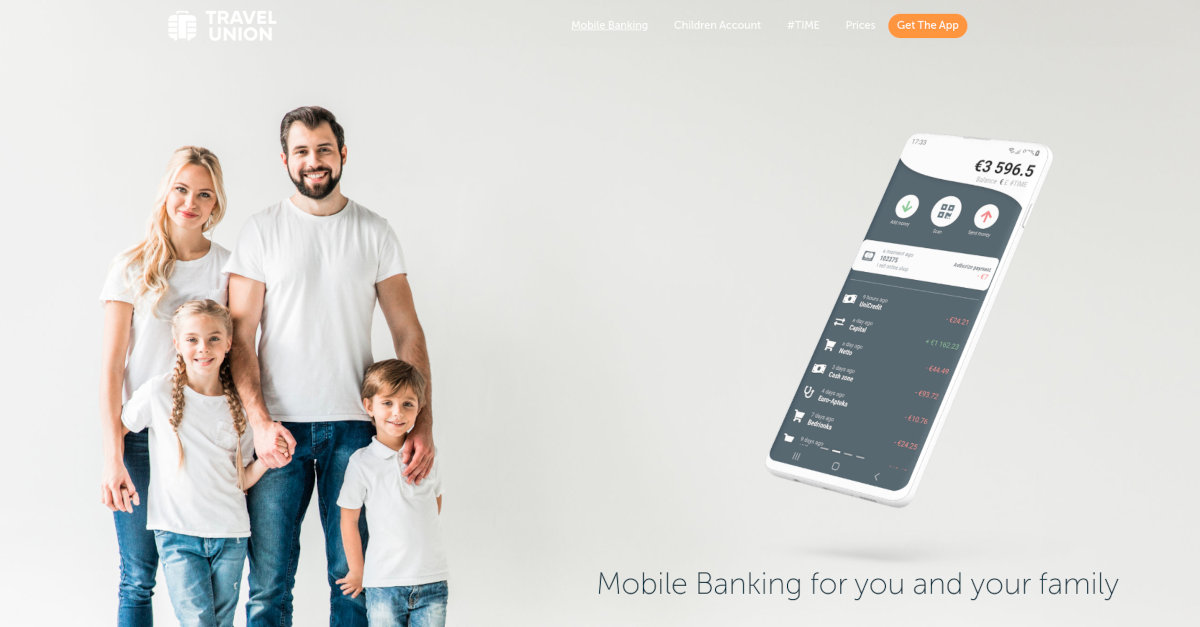
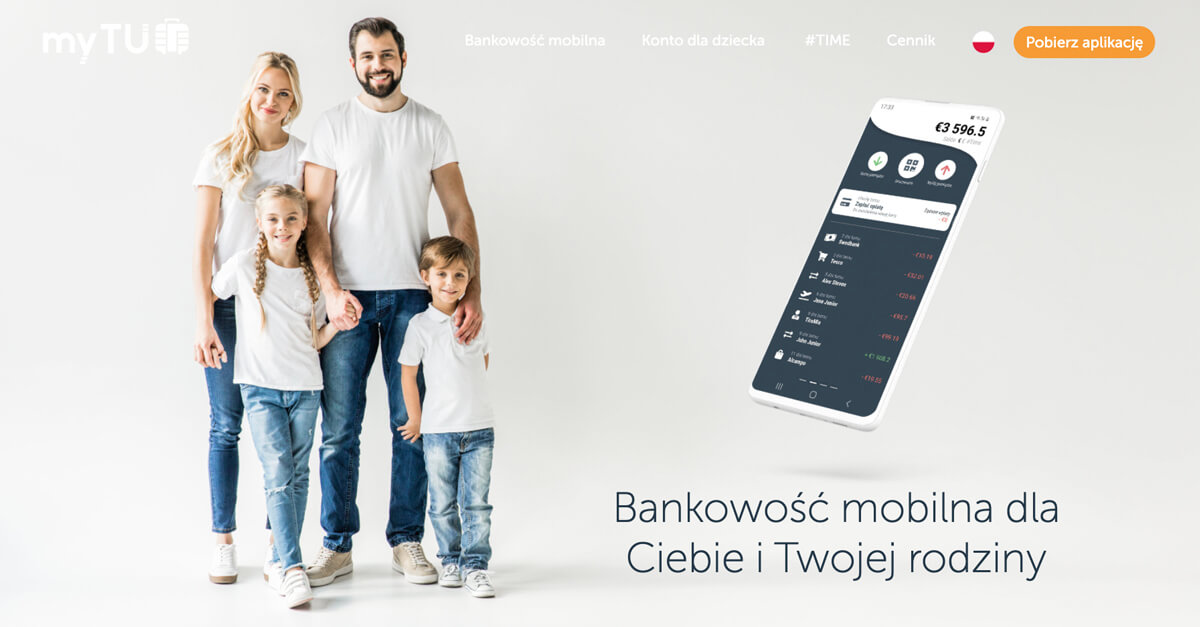
pl fixes

diff --git a/pl/index.html b/pl/index.html
@@ -11,9 +11,9 @@
     <meta name="viewport" content="width=device-width, maximum-scale=1.0, user-scalable=0">
     <meta property="og:image" content="assets/img/screen1.jpg">
     <meta name="twitter:image" content="assets/img/screen1.jpg">
-    <meta property="og:title" content="myTU Mobile Banking">
-    <meta property="og:description" content="myTU is a convenient mobile banking app with a personal account for you and all your family members from the age of 7. ">
+    <meta property="og:description" content="myTU to wygodna aplikacja do bankowości mobilnej z kontem osobistym dla Ciebie i wszystkich członków Twojej rodziny od 7 roku życia. ">
     <meta name="description" content="myTU to wygodna aplikacja do bankowości mobilnej z kontem osobistym dla Ciebie i wszystkich członków Twojej rodziny od 7 roku życia. ">
+    <meta property="og:title" content="myTU Bankowość Mobilna">
     <link rel="icon" type="image/png" sizes="192x192" href="assets/img/android-icon-192x192.png">
     <link rel="icon" type="image/png" sizes="192x192" href="assets/img/android-icon-192x192.png">
     <link rel="icon" type="image/png" sizes="192x192" href="assets/img/android-icon-192x192.png">
@@ -34,7 +34,7 @@
 </head>
 
 <body class="tr" style="font-family: 'Museo Sans Cyrillic';height: 100%;background-color: white;">
-    <nav class="navbar navbar-light navbar-expand-md fixed-top navigation-clean-button">
+    <nav class="navbar navbar-dark navbar-expand-md fixed-top navigation-clean-button">
         <div class="container"><a href="https://www.mytu.co/"><img id="logoNormal" src="assets/img/logo-rgb.svg" width="150px" style="width: 150px;" alt="myTU mobile banking logo"><img id="logoWhite" src="assets/img/logo-white.svg" width="150px" style="width: 150px;margin-left: -150px;"></a><button data-toggle="collapse" class="navbar-toggler" data-target="#navcol-1" style="border: 0px !important;outline: 0px !important;"><span class="sr-only">Toggle navigation</span><span class="navbar-toggler-icon text-white"></span></button>
             <div class="collapse navbar-collapse text-right" id="navcol-1">
                 <ul class="navbar-nav ml-auto">
@@ -47,7 +47,7 @@
             </div>
         </div>
     </nav>
-    <div class="d-block d-md-none" style="width: 100%;display: table;position: absolute;background-image: url(assets/img/landing1.jpg);background-attachment: fixed;background-position: 30% 0%;background-size: cover;height: 65%;min-height: 350px;"></div>
+    <div class="d-block d-md-none" style="width: 100%;display: table;position: absolute;background-image: url(assets/img/landing1.jpg);background-attachment: scroll;background-position: 30% 0%;background-size: cover;height: 65%;min-height: 350px;"></div>
     <div class="d-none d-md-block" style="width: 100%;display: table;position: absolute;background-image: url(assets/img/landing1.jpg);background-attachment: fixed;background-position: 30% 0%;background-size: cover;height: 100%;min-height: 800px;padding-right: 30px;"></div>
     <div class="d-block d-md-none" style="height: 50%;margin-bottom: -250px;min-height: 350px;"></div>
     <div class="container-fluid text-primary" style="height: 100%;padding-top: 90px;box-sizing: border-box;/*top: 0px;*//*left: 0px;*/width: 100%;overflow: hidden;/*display: table;*/min-height: 800px;">
@@ -234,7 +234,7 @@
                         <h3 style="font-size: 1.1em;">Firma</h3>
                         <ul>
                             <li><a href="about-us-company-contacts.html">O nas</a></li>
-                            <li><a href="about-us-company-contacts.html#contacts">Łączność</a></li>
+                            <li><a href="about-us-company-contacts.html#contacts">Kontakt</a></li>
                             <li><a href="about-us-company-contacts.html#press">Prasa</a></li>
                             <li><a href="legal-documents.html">Regulamin</a></li>
                             <li><a href="https://mytu.co/careers.html" target="_blank">Kariera</a></li>
@@ -299,7 +299,7 @@ cookieconsent.run({"notice_banner_type":"simple","consent_type":"express","palet
                     </div>
                     <div class="row">
                         <div class="col-6 d-flex flex-grow-1 align-items-center"><a class="text-primary" href="https://mytu.es"><img src="assets/img/spain-flag-round-small.png" width="36px" height="36px" style="border: 1px solid #e1e1e1;border-radius: 100%;">&nbsp; Español</a></div>
-                        <div class="col-auto d-flex flex-grow-1 align-items-center"><a class="text-primary" href="https://mytu.pl"><img src="assets/img/poland-flag-round-small.png" width="36px" height="36px" style="border: 1px solid #e1e1e1;border-radius: 100%;">&nbsp; Polskie</a></div>
+                        <div class="col-auto d-flex flex-grow-1 align-items-center"><a class="text-primary" href="https://mytu.pl"><img src="assets/img/poland-flag-round-small.png" width="36px" height="36px" style="border: 1px solid #e1e1e1;border-radius: 100%;">&nbsp; Polski</a></div>
                     </div>
                 </div>
             </div>

diff --git a/pl/payment-card-for-kids.html b/pl/payment-card-for-kids.html
@@ -34,7 +34,7 @@
 </head>
 
 <body class="tr" style="font-family: 'Museo Sans Cyrillic';height: 100%;">
-    <nav class="navbar navbar-light navbar-expand-md fixed-top navigation-clean-button">
+    <nav class="navbar navbar-dark navbar-expand-md fixed-top navigation-clean-button">
         <div class="container"><a href="https://www.mytu.co/"><img id="logoNormal" src="assets/img/logo-rgb.svg" width="150px" style="width: 150px;" alt="myTU mobile banking logo"><img id="logoWhite" src="assets/img/logo-white.svg" width="150px" style="width: 150px;margin-left: -150px;"></a><button data-toggle="collapse" class="navbar-toggler" data-target="#navcol-1" style="border: 0px !important;outline: 0px !important;"><span class="sr-only">Toggle navigation</span><span class="navbar-toggler-icon text-white"></span></button>
             <div class="collapse navbar-collapse text-right" id="navcol-1">
                 <ul class="navbar-nav ml-auto">
@@ -47,7 +47,7 @@
             </div>
         </div>
     </nav>
-    <div class="d-block d-md-none" style="width: 100%;display: table;position: absolute;background-image: url(assets/img/landing2.jpg);background-attachment: fixed;background-position: 30% 0%;background-size: cover;height: 65%;min-height: 350px;"></div>
+    <div class="d-block d-md-none" style="width: 100%;display: table;position: absolute;background-image: url(assets/img/landing2.jpg);background-attachment: scroll;background-position: 30% 0%;background-size: cover;height: 65%;min-height: 350px;"></div>
     <div class="d-none d-md-block" style="width: 100%;display: table;position: absolute;background-image: url(assets/img/landing2.jpg);background-attachment: fixed;background-position: 30% 0%;background-size: cover;height: 100%;min-height: 800px;"></div>
     <div class="d-block d-md-none" style="height: 50%;margin-bottom: -250px;min-height: 350px;"></div>
     <div class="container-fluid text-primary" style="height: 100%;padding-top: 90px;box-sizing: border-box;/*top: 0px;*//*left: 0px;*/width: 100%;overflow: hidden;/*display: table;*/min-height: 800px;">
@@ -98,7 +98,7 @@
                     <h2 class="text-warning" data-aos="fade-left" data-aos-delay="350" data-aos-once="true" style="font-weight: 200;">dla dziecka?</h2>
                     <ol style="font-size: 1.4em;">
                         <li>Jedno z rodziców musi mieć konto w myTU.<br></li>
-                        <li>Jeden z rodziców rejestruje dziecko poprzez swoją aplikację: czyta umowę, przekazuje dokumenty dziecka, rejestruje numer telefonu dziecka.<br></li>
+                        <li>Jedno z rodziców rejestruje dziecko poprzez swoją aplikację: czyta umowę, przekazuje dokumenty dziecka, rejestruje numer telefonu dziecka.<br></li>
                         <li>Dziecko pobiera aplikację myTU, rejestruje swój smartfon i potwierdza swoją tożsamość&nbsp;<br></li>
                         <li>Ankietę dla dziecka poniżej 14 roku życia muszą wypełnić rodzice w ich aplikacji. Od 14 roku życia dziecko wykonuje tę czynność samodzielnie, ze swojego smartfona.&nbsp;<br></li>
                     </ol>
@@ -255,7 +255,7 @@
                         <h3 style="font-size: 1.1em;">Firma</h3>
                         <ul>
                             <li><a href="about-us-company-contacts.html">O nas</a></li>
-                            <li><a href="about-us-company-contacts.html#contacts">Łączność</a></li>
+                            <li><a href="about-us-company-contacts.html#contacts">Kontakt</a></li>
                             <li><a href="about-us-company-contacts.html#press">Prasa</a></li>
                             <li><a href="legal-documents.html">Regulamin</a></li>
                             <li><a href="https://mytu.co/careers.html" target="_blank">Kariera</a></li>
@@ -320,7 +320,7 @@ cookieconsent.run({"notice_banner_type":"simple","consent_type":"express","palet
                     </div>
                     <div class="row">
                         <div class="col-6 d-flex flex-grow-1 align-items-center"><a class="text-primary" href="https://mytu.es"><img src="assets/img/spain-flag-round-small.png" width="36px" height="36px" style="border: 1px solid #e1e1e1;border-radius: 100%;">&nbsp; Español</a></div>
-                        <div class="col-auto d-flex flex-grow-1 align-items-center"><a class="text-primary" href="https://mytu.pl"><img src="assets/img/poland-flag-round-small.png" width="36px" height="36px" style="border: 1px solid #e1e1e1;border-radius: 100%;">&nbsp; Polskie</a></div>
+                        <div class="col-auto d-flex flex-grow-1 align-items-center"><a class="text-primary" href="https://mytu.pl"><img src="assets/img/poland-flag-round-small.png" width="36px" height="36px" style="border: 1px solid #e1e1e1;border-radius: 100%;">&nbsp; Polski</a></div>
                     </div>
                 </div>
             </div>

diff --git a/pl/time-loyalty-program.html b/pl/time-loyalty-program.html
@@ -34,7 +34,7 @@
 </head>
 
 <body class="tr" style="font-family: 'Museo Sans Cyrillic';height: 100%;">
-    <nav class="navbar navbar-light navbar-expand-md fixed-top navigation-clean-button">
+    <nav class="navbar navbar-dark navbar-expand-md fixed-top navigation-clean-button">
         <div class="container"><a href="https://www.mytu.co/"><img id="logoNormal" src="assets/img/logo-rgb.svg" width="150px" style="width: 150px;" alt="myTU mobile banking logo"><img id="logoWhite" src="assets/img/logo-white.svg" width="150px" style="width: 150px;margin-left: -150px;"></a><button data-toggle="collapse" class="navbar-toggler" data-target="#navcol-1" style="border: 0px !important;outline: 0px !important;"><span class="sr-only">Toggle navigation</span><span class="navbar-toggler-icon text-white"></span></button>
             <div class="collapse navbar-collapse text-right" id="navcol-1">
                 <ul class="navbar-nav ml-auto">
@@ -47,7 +47,7 @@
             </div>
         </div>
     </nav>
-    <div class="d-block d-md-none" style="width: 100%;display: table;position: absolute;background-image: url(assets/img/landing3.jpg);background-attachment: fixed;background-position: 50% 100%;background-size: cover;height: 65%;min-height: 350px;"></div>
+    <div class="d-block d-md-none" style="width: 100%;display: table;position: absolute;background-image: url(assets/img/landing3.jpg);background-attachment: scroll;background-position: 50% 100%;background-size: cover;height: 65%;min-height: 350px;"></div>
     <div class="d-none d-md-block" style="width: 100%;display: table;position: absolute;background-image: url(assets/img/landing3.jpg);background-attachment: fixed;background-position: 50% 100%;background-size: cover;height: 100%;min-height: 800px;"></div>
     <div class="d-block d-md-none" style="height: 50%;margin-bottom: -250px;min-height: 350px;"></div>
     <div class="container-fluid text-primary time-hero-container">
@@ -187,7 +187,7 @@
                         <h3 style="font-size: 1.1em;">Firma</h3>
                         <ul>
                             <li><a href="about-us-company-contacts.html">O nas</a></li>
-                            <li><a href="about-us-company-contacts.html#contacts">Łączność</a></li>
+                            <li><a href="about-us-company-contacts.html#contacts">Kontakt</a></li>
                             <li><a href="about-us-company-contacts.html#press">Prasa</a></li>
                             <li><a href="legal-documents.html">Regulamin</a></li>
                             <li><a href="https://mytu.co/careers.html" target="_blank">Kariera</a></li>
@@ -252,7 +252,7 @@ cookieconsent.run({"notice_banner_type":"simple","consent_type":"express","palet
                     </div>
                     <div class="row">
                         <div class="col-6 d-flex flex-grow-1 align-items-center"><a class="text-primary" href="https://mytu.es"><img src="assets/img/spain-flag-round-small.png" width="36px" height="36px" style="border: 1px solid #e1e1e1;border-radius: 100%;">&nbsp; Español</a></div>
-                        <div class="col-auto d-flex flex-grow-1 align-items-center"><a class="text-primary" href="https://mytu.pl"><img src="assets/img/poland-flag-round-small.png" width="36px" height="36px" style="border: 1px solid #e1e1e1;border-radius: 100%;">&nbsp; Polskie</a></div>
+                        <div class="col-auto d-flex flex-grow-1 align-items-center"><a class="text-primary" href="https://mytu.pl"><img src="assets/img/poland-flag-round-small.png" width="36px" height="36px" style="border: 1px solid #e1e1e1;border-radius: 100%;">&nbsp; Polski</a></div>
                     </div>
                 </div>
             </div>

diff --git a/pl/legal-documents.html b/pl/legal-documents.html
@@ -34,7 +34,7 @@
 </head>
 
 <body class="page-legal" style="font-family: 'Museo Sans Cyrillic';">
-    <nav class="navbar navbar-light navbar-expand-md fixed-top navigation-clean-button">
+    <nav class="navbar navbar-dark navbar-expand-md fixed-top navigation-clean-button">
         <div class="container"><a href="https://www.mytu.co/"><img id="logoNormal" src="assets/img/logo-rgb.svg" width="150px" style="width: 150px;" alt="myTU mobile banking logo"><img id="logoWhite" src="assets/img/logo-white.svg" width="150px" style="width: 150px;margin-left: -150px;"></a><button data-toggle="collapse" class="navbar-toggler" data-target="#navcol-1" style="border: 0px !important;outline: 0px !important;"><span class="sr-only">Toggle navigation</span><span class="navbar-toggler-icon text-white"></span></button>
             <div class="collapse navbar-collapse text-right" id="navcol-1">
                 <ul class="navbar-nav ml-auto">
@@ -297,7 +297,7 @@ We use the following categories of cookies on our Website:</p>
                         <h3 style="font-size: 1.1em;">Firma</h3>
                         <ul>
                             <li><a href="about-us-company-contacts.html">O nas</a></li>
-                            <li><a href="about-us-company-contacts.html#contacts">Łączność</a></li>
+                            <li><a href="about-us-company-contacts.html#contacts">Kontakt</a></li>
                             <li><a href="about-us-company-contacts.html#press">Prasa</a></li>
                             <li><a href="legal-documents.html">Regulamin</a></li>
                             <li><a href="https://mytu.co/careers.html" target="_blank">Kariera</a></li>
@@ -362,7 +362,7 @@ cookieconsent.run({"notice_banner_type":"simple","consent_type":"express","palet
                     </div>
                     <div class="row">
                         <div class="col-6 d-flex flex-grow-1 align-items-center"><a class="text-primary" href="https://mytu.es"><img src="assets/img/spain-flag-round-small.png" width="36px" height="36px" style="border: 1px solid #e1e1e1;border-radius: 100%;">&nbsp; Español</a></div>
-                        <div class="col-auto d-flex flex-grow-1 align-items-center"><a class="text-primary" href="https://mytu.pl"><img src="assets/img/poland-flag-round-small.png" width="36px" height="36px" style="border: 1px solid #e1e1e1;border-radius: 100%;">&nbsp; Polskie</a></div>
+                        <div class="col-auto d-flex flex-grow-1 align-items-center"><a class="text-primary" href="https://mytu.pl"><img src="assets/img/poland-flag-round-small.png" width="36px" height="36px" style="border: 1px solid #e1e1e1;border-radius: 100%;">&nbsp; Polski</a></div>
                     </div>
                 </div>
             </div>

diff --git a/pl/mobile-banking-prices.html b/pl/mobile-banking-prices.html
@@ -34,7 +34,7 @@
 </head>
 
 <body style="font-family: 'Museo Sans Cyrillic';height: 100%;">
-    <nav class="navbar navbar-light navbar-expand-md fixed-top navigation-clean-button">
+    <nav class="navbar navbar-dark navbar-expand-md fixed-top navigation-clean-button">
         <div class="container"><a href="https://www.mytu.co/"><img id="logoNormal" src="assets/img/logo-rgb.svg" width="150px" style="width: 150px;" alt="myTU mobile banking logo"><img id="logoWhite" src="assets/img/logo-white.svg" width="150px" style="width: 150px;margin-left: -150px;"></a><button data-toggle="collapse" class="navbar-toggler" data-target="#navcol-1" style="border: 0px !important;outline: 0px !important;"><span class="sr-only">Toggle navigation</span><span class="navbar-toggler-icon text-white"></span></button>
             <div class="collapse navbar-collapse text-right" id="navcol-1">
                 <ul class="navbar-nav ml-auto">
@@ -157,7 +157,7 @@
                         <h3 style="font-size: 1.1em;">Firma</h3>
                         <ul>
                             <li><a href="about-us-company-contacts.html">O nas</a></li>
-                            <li><a href="about-us-company-contacts.html#contacts">Łączność</a></li>
+                            <li><a href="about-us-company-contacts.html#contacts">Kontakt</a></li>
                             <li><a href="about-us-company-contacts.html#press">Prasa</a></li>
                             <li><a href="legal-documents.html">Regulamin</a></li>
                             <li><a href="https://mytu.co/careers.html" target="_blank">Kariera</a></li>
@@ -222,7 +222,7 @@ cookieconsent.run({"notice_banner_type":"simple","consent_type":"express","palet
                     </div>
                     <div class="row">
                         <div class="col-6 d-flex flex-grow-1 align-items-center"><a class="text-primary" href="https://mytu.es"><img src="assets/img/spain-flag-round-small.png" width="36px" height="36px" style="border: 1px solid #e1e1e1;border-radius: 100%;">&nbsp; Español</a></div>
-                        <div class="col-auto d-flex flex-grow-1 align-items-center"><a class="text-primary" href="https://mytu.pl"><img src="assets/img/poland-flag-round-small.png" width="36px" height="36px" style="border: 1px solid #e1e1e1;border-radius: 100%;">&nbsp; Polskie</a></div>
+                        <div class="col-auto d-flex flex-grow-1 align-items-center"><a class="text-primary" href="https://mytu.pl"><img src="assets/img/poland-flag-round-small.png" width="36px" height="36px" style="border: 1px solid #e1e1e1;border-radius: 100%;">&nbsp; Polski</a></div>
                     </div>
                 </div>
             </div>

diff --git a/pl/about-us-company-contacts.html b/pl/about-us-company-contacts.html
@@ -34,7 +34,7 @@
 </head>
 
 <body style="font-family: 'Museo Sans Cyrillic';">
-    <nav class="navbar navbar-light navbar-expand-md fixed-top navigation-clean-button">
+    <nav class="navbar navbar-dark navbar-expand-md fixed-top navigation-clean-button">
         <div class="container"><a href="https://www.mytu.co/"><img id="logoNormal" src="assets/img/logo-rgb.svg" width="150px" style="width: 150px;" alt="myTU mobile banking logo"><img id="logoWhite" src="assets/img/logo-white.svg" width="150px" style="width: 150px;margin-left: -150px;"></a><button data-toggle="collapse" class="navbar-toggler" data-target="#navcol-1" style="border: 0px !important;outline: 0px !important;"><span class="sr-only">Toggle navigation</span><span class="navbar-toggler-icon text-white"></span></button>
             <div class="collapse navbar-collapse text-right" id="navcol-1">
                 <ul class="navbar-nav ml-auto">
@@ -167,7 +167,7 @@
                         <h3 style="font-size: 1.1em;">Firma</h3>
                         <ul>
                             <li><a href="about-us-company-contacts.html">O nas</a></li>
-                            <li><a href="about-us-company-contacts.html#contacts">Łączność</a></li>
+                            <li><a href="about-us-company-contacts.html#contacts">Kontakt</a></li>
                             <li><a href="about-us-company-contacts.html#press">Prasa</a></li>
                             <li><a href="legal-documents.html">Regulamin</a></li>
                             <li><a href="https://mytu.co/careers.html" target="_blank">Kariera</a></li>
@@ -232,7 +232,7 @@ cookieconsent.run({"notice_banner_type":"simple","consent_type":"express","palet
                     </div>
                     <div class="row">
                         <div class="col-6 d-flex flex-grow-1 align-items-center"><a class="text-primary" href="https://mytu.es"><img src="assets/img/spain-flag-round-small.png" width="36px" height="36px" style="border: 1px solid #e1e1e1;border-radius: 100%;">&nbsp; Español</a></div>
-                        <div class="col-auto d-flex flex-grow-1 align-items-center"><a class="text-primary" href="https://mytu.pl"><img src="assets/img/poland-flag-round-small.png" width="36px" height="36px" style="border: 1px solid #e1e1e1;border-radius: 100%;">&nbsp; Polskie</a></div>
+                        <div class="col-auto d-flex flex-grow-1 align-items-center"><a class="text-primary" href="https://mytu.pl"><img src="assets/img/poland-flag-round-small.png" width="36px" height="36px" style="border: 1px solid #e1e1e1;border-radius: 100%;">&nbsp; Polski</a></div>
                     </div>
                 </div>
             </div>

diff --git a/pl/app.html b/pl/app.html
@@ -34,7 +34,7 @@
 </head>
 
 <body style="font-family: 'Museo Sans Cyrillic';">
-    <nav class="navbar navbar-light navbar-expand-md fixed-top navigation-clean-button">
+    <nav class="navbar navbar-dark navbar-expand-md fixed-top navigation-clean-button">
         <div class="container"><a href="https://www.mytu.co/"><img id="logoNormal" src="assets/img/logo-rgb.svg" width="150px" style="width: 150px;" alt="myTU mobile banking logo"><img id="logoWhite" src="assets/img/logo-white.svg" width="150px" style="width: 150px;margin-left: -150px;"></a><button data-toggle="collapse" class="navbar-toggler" data-target="#navcol-1" style="border: 0px !important;outline: 0px !important;"><span class="sr-only">Toggle navigation</span><span class="navbar-toggler-icon text-white"></span></button>
             <div class="collapse navbar-collapse text-right" id="navcol-1">
                 <ul class="navbar-nav ml-auto">
@@ -125,7 +125,7 @@
                         <h3 style="font-size: 1.1em;">Firma</h3>
                         <ul>
                             <li><a href="about-us-company-contacts.html">O nas</a></li>
-                            <li><a href="about-us-company-contacts.html#contacts">Łączność</a></li>
+                            <li><a href="about-us-company-contacts.html#contacts">Kontakt</a></li>
                             <li><a href="about-us-company-contacts.html#press">Prasa</a></li>
                             <li><a href="legal-documents.html">Regulamin</a></li>
                             <li><a href="https://mytu.co/careers.html" target="_blank">Kariera</a></li>
@@ -190,7 +190,7 @@ cookieconsent.run({"notice_banner_type":"simple","consent_type":"express","palet
                     </div>
                     <div class="row">
                         <div class="col-6 d-flex flex-grow-1 align-items-center"><a class="text-primary" href="https://mytu.es"><img src="assets/img/spain-flag-round-small.png" width="36px" height="36px" style="border: 1px solid #e1e1e1;border-radius: 100%;">&nbsp; Español</a></div>
-                        <div class="col-auto d-flex flex-grow-1 align-items-center"><a class="text-primary" href="https://mytu.pl"><img src="assets/img/poland-flag-round-small.png" width="36px" height="36px" style="border: 1px solid #e1e1e1;border-radius: 100%;">&nbsp; Polskie</a></div>
+                        <div class="col-auto d-flex flex-grow-1 align-items-center"><a class="text-primary" href="https://mytu.pl"><img src="assets/img/poland-flag-round-small.png" width="36px" height="36px" style="border: 1px solid #e1e1e1;border-radius: 100%;">&nbsp; Polski</a></div>
                     </div>
                 </div>
             </div>

diff --git a/pl/pocket-money.html b/pl/pocket-money.html
@@ -34,7 +34,7 @@
 </head>
 
 <body style="font-family: 'Museo Sans Cyrillic';">
-    <nav class="navbar navbar-light navbar-expand-md fixed-top navigation-clean-button">
+    <nav class="navbar navbar-dark navbar-expand-md fixed-top navigation-clean-button">
         <div class="container"><a href="https://www.mytu.co/"><img id="logoNormal" src="assets/img/logo-rgb.svg" width="150px" style="width: 150px;" alt="myTU mobile banking logo"><img id="logoWhite" src="assets/img/logo-white.svg" width="150px" style="width: 150px;margin-left: -150px;"></a><button data-toggle="collapse" class="navbar-toggler" data-target="#navcol-1" style="border: 0px !important;outline: 0px !important;"><span class="sr-only">Toggle navigation</span><span class="navbar-toggler-icon text-white"></span></button>
             <div class="collapse navbar-collapse text-right" id="navcol-1">
                 <ul class="navbar-nav ml-auto">
@@ -127,7 +127,7 @@
                         <h3 style="font-size: 1.1em;">Firma</h3>
                         <ul>
                             <li><a href="about-us-company-contacts.html">O nas</a></li>
-                            <li><a href="about-us-company-contacts.html#contacts">Łączność</a></li>
+                            <li><a href="about-us-company-contacts.html#contacts">Kontakt</a></li>
                             <li><a href="about-us-company-contacts.html#press">Prasa</a></li>
                             <li><a href="legal-documents.html">Regulamin</a></li>
                             <li><a href="https://mytu.co/careers.html" target="_blank">Kariera</a></li>
@@ -192,7 +192,7 @@ cookieconsent.run({"notice_banner_type":"simple","consent_type":"express","palet
                     </div>
                     <div class="row">
                         <div class="col-6 d-flex flex-grow-1 align-items-center"><a class="text-primary" href="https://mytu.es"><img src="assets/img/spain-flag-round-small.png" width="36px" height="36px" style="border: 1px solid #e1e1e1;border-radius: 100%;">&nbsp; Español</a></div>
-                        <div class="col-auto d-flex flex-grow-1 align-items-center"><a class="text-primary" href="https://mytu.pl"><img src="assets/img/poland-flag-round-small.png" width="36px" height="36px" style="border: 1px solid #e1e1e1;border-radius: 100%;">&nbsp; Polskie</a></div>
+                        <div class="col-auto d-flex flex-grow-1 align-items-center"><a class="text-primary" href="https://mytu.pl"><img src="assets/img/poland-flag-round-small.png" width="36px" height="36px" style="border: 1px solid #e1e1e1;border-radius: 100%;">&nbsp; Polski</a></div>
                     </div>
                 </div>
             </div>
